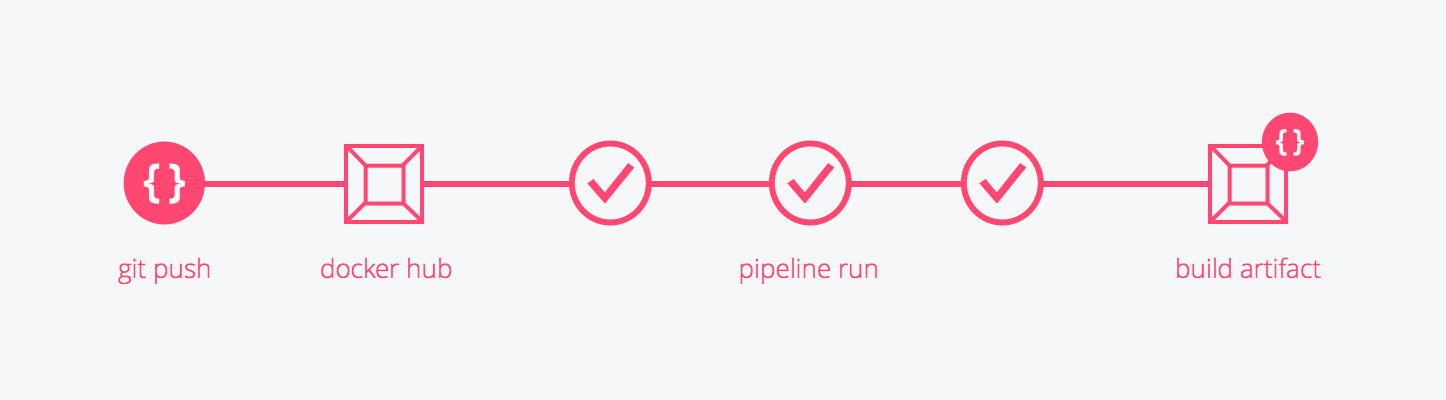
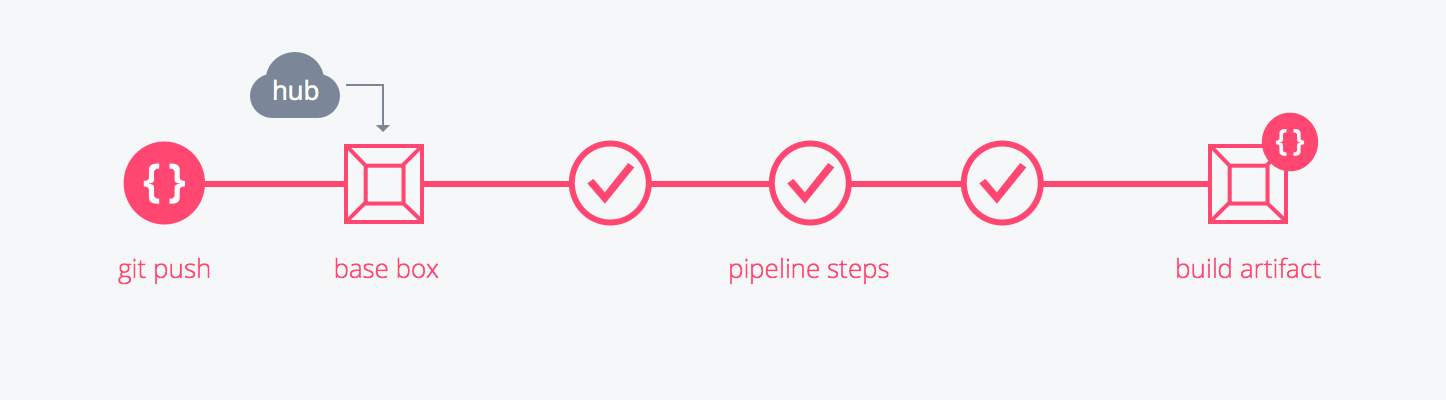
new images

diff --git a/local_modules/wercker-typography/index.css b/local_modules/wercker-typography/index.css
@@ -126,7 +126,7 @@ h2 + p {
   margin-bottom: 30px;
 }
 
-h2 + p > a {
+h2 + p > a, h2 + p > em {
   font-family: 'Merriweather', serif;
   line-height: $lineHeight_loose;
   font-weight: $fontWeight_base;

diff --git a/lib/learn/pipelines/02_how-it-works.md b/lib/learn/pipelines/02_how-it-works.md
@@ -8,14 +8,18 @@ Build pipelines have an end result called an *artifact* which is the
 result of your pipeline. Wercker stores this artifact on its
 infrastructure such that it can be used in deploy pipelines.
 
+![image](/images/pipeline-build.png)
+
 When a build pipeline starts it uses the *box* section in your
 [wercker.yml](/learn/wercker-yml/01_introduction.html) file as a base container and pulls it in from the
-[Docker Hub](/learn/containers/02_docker-hub.html). Any [service](http://localhost:1337/learn/wercker-yml/03_sections.html)
+[Docker Hub](/learn/containers/02_docker-hub.html).
+
+Any [service](http://localhost:1337/learn/wercker-yml/03_sections.html)
 container that was specified as well will be spun up as a separate
 container and available during the build pipeline. Communication with
 service containers is done through [environment variables](/learn/containers/03_using-containers.html).
 
-![image](/images/pipeline-build.png)
+![image](/images/pipeline-service.png)
 
 The starting point for a deploy pipeline is the artifact that was
 created during the build pipeline.

diff --git a/lib/learn/pipelines/03_using-env-vars.md b/lib/learn/pipelines/03_using-env-vars.md
@@ -7,6 +7,7 @@ The interface supports two types of data:
 * text (which can be set as protected)
 * SSH key pairs
 
+![image](/images/env-vars.png)
 
 ### Protected variables
 

diff --git a/lib/docs/build/introspecting-builds.md b/lib/docs/build/introspecting-builds.md
@@ -1,0 +1,5 @@
+---
+tags: example
+---
+
+## Introspecting builds

diff --git a/lib/docs/build/pulling-builds.md b/lib/docs/build/pulling-builds.md
@@ -1,0 +1,5 @@
+---
+tags: example
+---
+
+## Pulling builds

diff --git a/lib/docs/build/local-builds.md b/lib/docs/build/local-builds.md
@@ -1,0 +1,5 @@
+---
+tags: example
+---
+
+## Local builds
